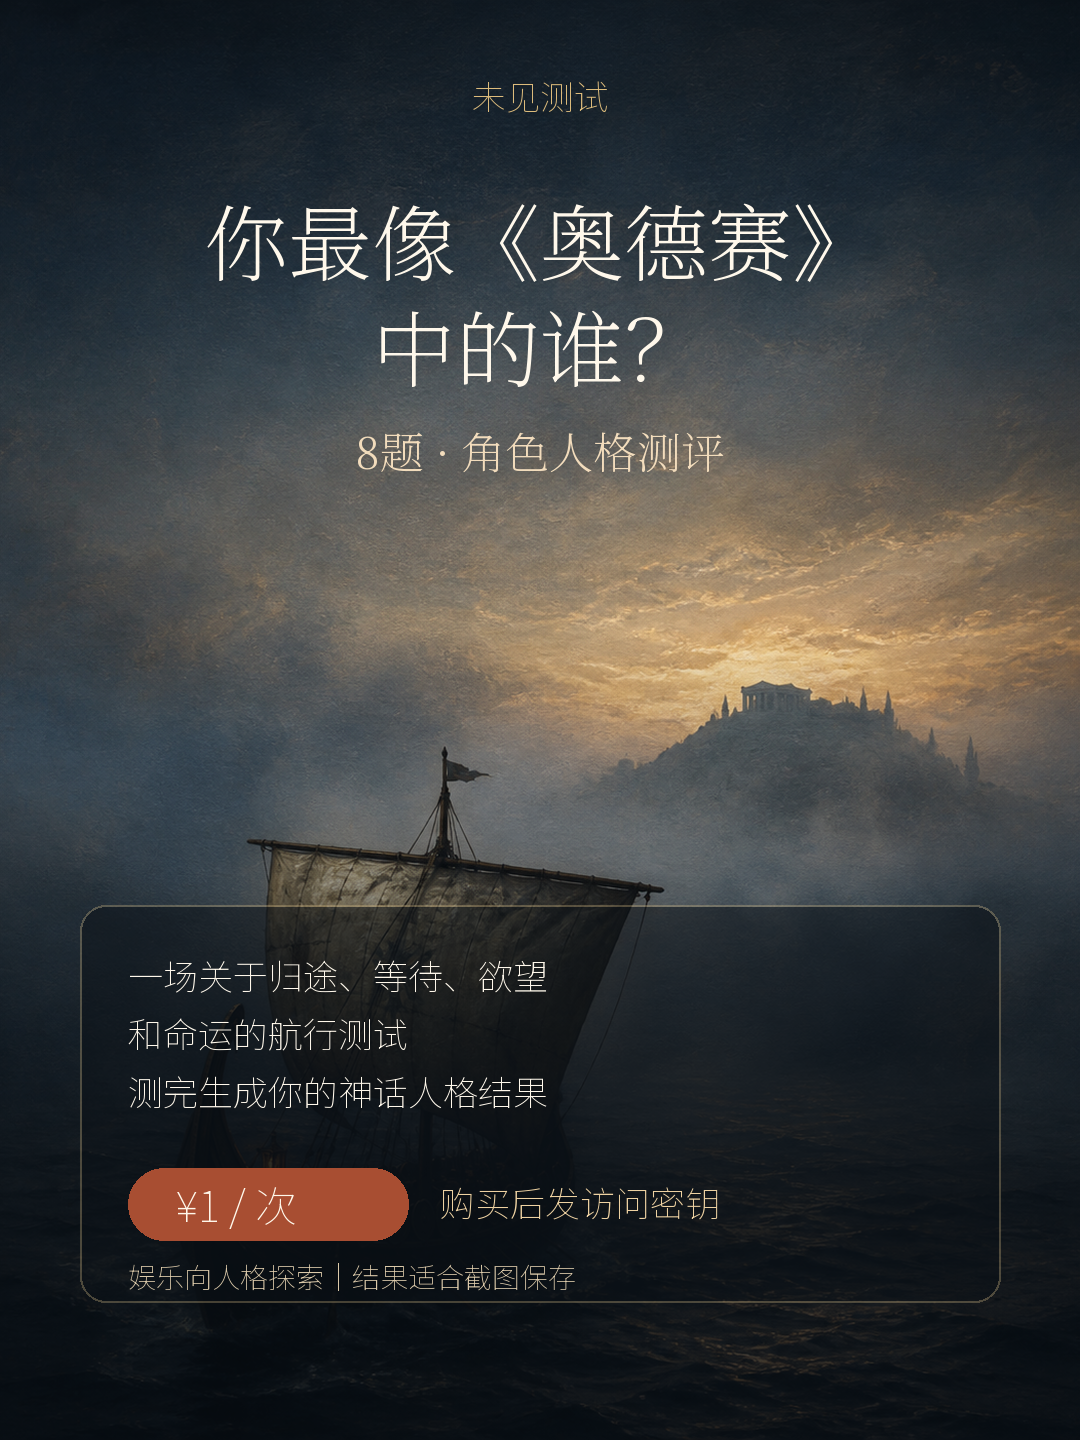
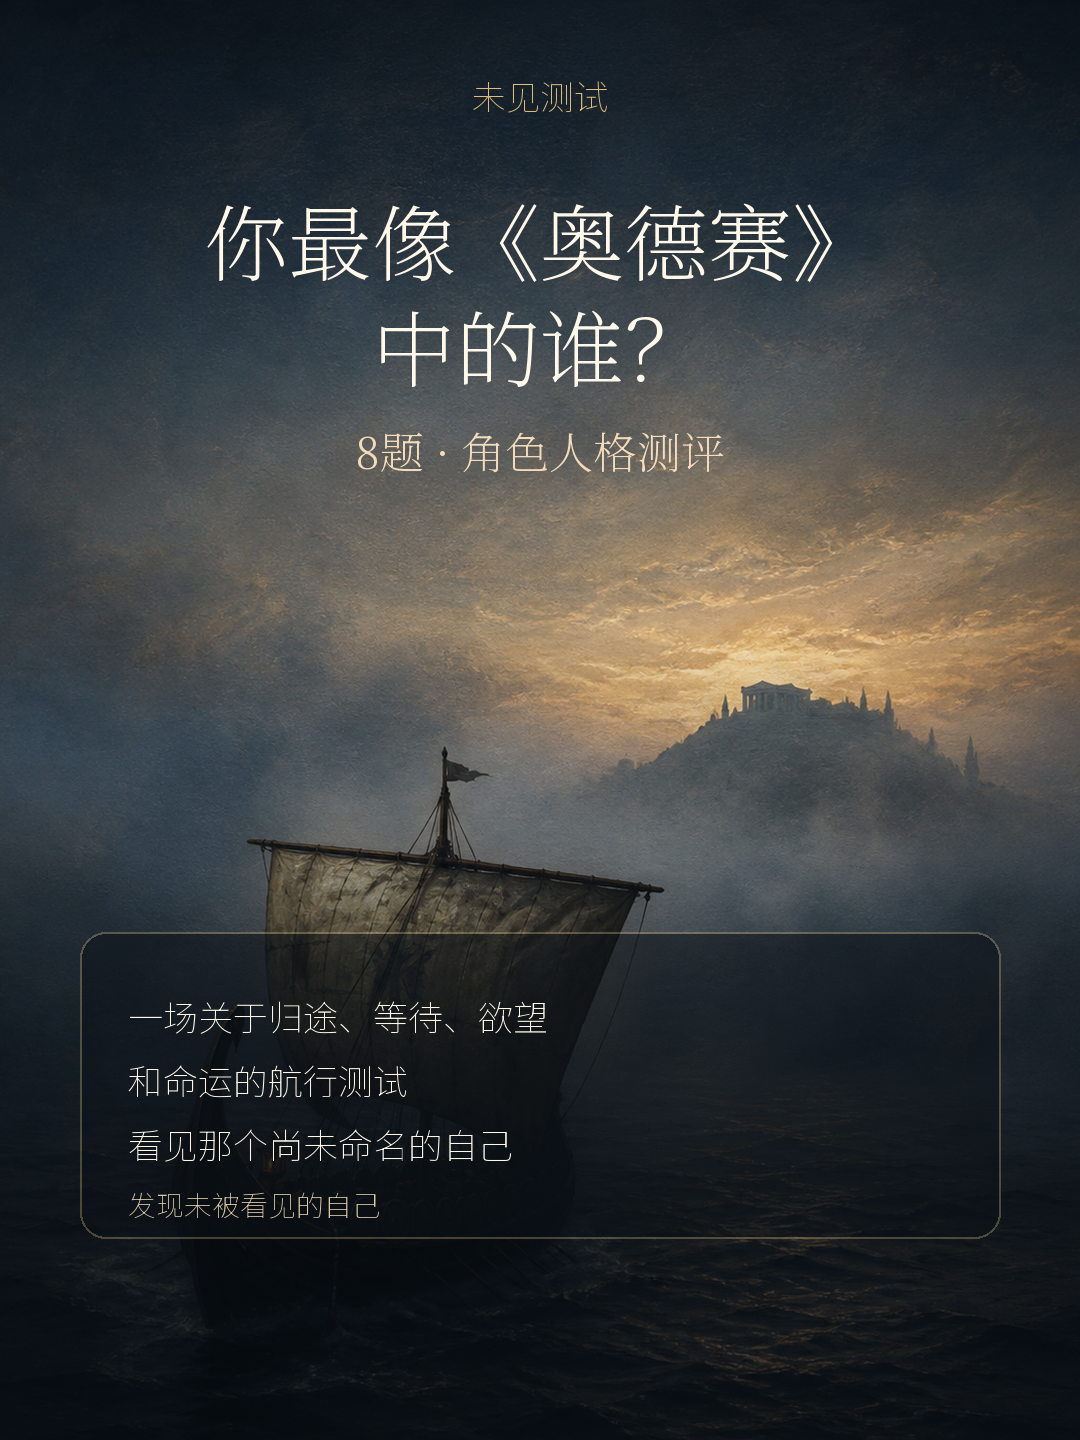
style: simplify xhs cover copy

Changed region(s): [[0.1222, 0.625, 0.8861, 0.9062], [0.55, 0.8125, 0.6722, 0.8438]]

diff --git a/scripts/make-xhs-cover.py b/scripts/make-xhs-cover.py
@@ -31,7 +31,7 @@ base = Image.alpha_composite(base.convert("RGBA"), overlay)
 panel = Image.new("RGBA", (width, height), (0, 0, 0, 0))
 panel_draw = ImageDraw.Draw(panel)
 panel_draw.rounded_rectangle(
-    (80, 905, 1000, 1302),
+    (80, 932, 1000, 1238),
     radius=26,
     fill=(10, 16, 22, 132),
     outline=(232, 204, 145, 72),
@@ -47,7 +47,6 @@ font_title = ImageFont.truetype(serif, 84)
 font_sub = ImageFont.truetype(serif, 44)
 font_body = ImageFont.truetype(sans, 35)
 font_small = ImageFont.truetype(sans, 28)
-font_price = ImageFont.truetype(sans, 42)
 
 
 def center_text(text, y, font, fill):
@@ -64,17 +63,14 @@ center_text("8题 · 角色人格测评", 418, font_sub, (242, 220, 188, 245))
 lines = [
     "一场关于归途、等待、欲望",
     "和命运的航行测试",
-    "测完生成你的神话人格结果",
+    "看见那个尚未命名的自己",
 ]
-y = 955
+y = 996
 for line in lines:
     draw.text((128, y), line, font=font_body, fill=(255, 248, 235, 238))
-    y += 58
+    y += 64
 
-draw.rounded_rectangle((128, 1168, 408, 1240), radius=36, fill=(168, 78, 50, 236))
-draw.text((176, 1180), "¥1 / 次", font=font_price, fill=(255, 248, 235, 255))
-draw.text((440, 1182), "购买后发访问密钥", font=font_body, fill=(238, 210, 162, 255))
-draw.text((128, 1260), "娱乐向人格探索｜结果适合截图保存", font=font_small, fill=(220, 202, 170, 230))
+draw.text((128, 1188), "发现未被看见的自己", font=font_small, fill=(220, 202, 170, 230))
 
 out.parent.mkdir(parents=True, exist_ok=True)
 base.convert("RGB").save(out, quality=92, optimize=True)
